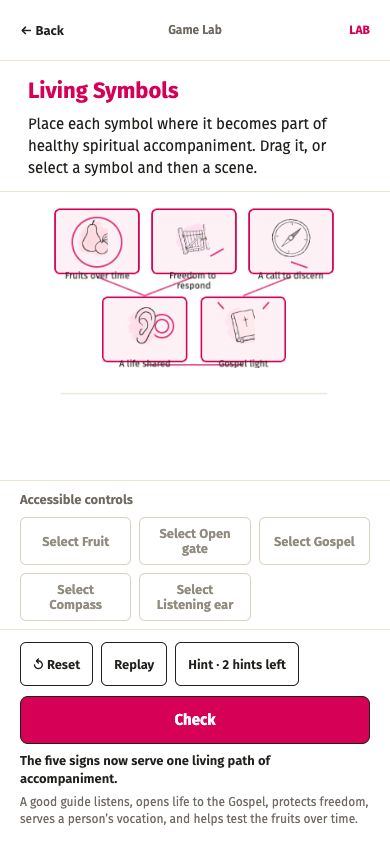
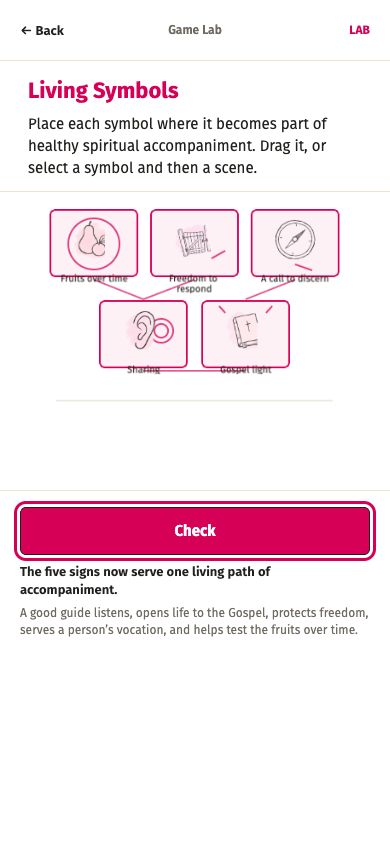
Simplify shared minigame controls and refine A4

Changed region(s): [[0.0308, 0.5853, 0.9846, 0.9858], [0.1231, 0.2464, 0.8923, 0.4621]]

diff --git a/src/minigames/stage-shell.js b/src/minigames/stage-shell.js
@@ -4,8 +4,8 @@ import { createResultAdapter } from "./result-adapter.js";
 import { loadPhaserRuntime } from "./runtime.js";
 
 const copy = {
-  en: { back: "Back", lab: "Game Lab", hint: "Hint", hintLeft: "hint left", hintsLeft: "hints left", check: "Check", reset: "Reset", replay: "Replay", controls: "Accessible controls", loading: "Loading game…", submitted: "Mission submitted", locked: "This mission already has its one submission.", invalid: "That move is not available. Your progress is unchanged.", ringMoved: "Band moved to the selected mark." },
-  pt: { back: "Voltar", lab: "Laboratório de Jogos", hint: "Dica", hintLeft: "dica restante", hintsLeft: "dicas restantes", check: "Verificar", reset: "Reiniciar", replay: "Jogar novamente", controls: "Controles acessíveis", loading: "Carregando jogo…", submitted: "Missão enviada", locked: "Esta missão já recebeu sua única resposta.", invalid: "Esse movimento não está disponível. Seu progresso não mudou.", ringMoved: "Faixa movida para a marca escolhida." },
+  en: { back: "Back", lab: "Game Lab", check: "Check", loading: "Loading game…", submitted: "Mission submitted", locked: "This mission already has its one submission.", invalid: "That move is not available. Your progress is unchanged.", ringMoved: "Band moved to the selected mark." },
+  pt: { back: "Voltar", lab: "Laboratório de Jogos", check: "Verificar", loading: "Carregando jogo…", submitted: "Missão enviada", locked: "Esta missão já recebeu sua única resposta.", invalid: "Esse movimento não está disponível. Seu progresso não mudou.", ringMoved: "Faixa movida para a marca escolhida." },
 };
 
 function tr(value, language) {
@@ -65,7 +65,7 @@ export async function launchGameStage({
   const engine = registry.resolve(instance, { allowNonProduction: instance.mode === "lab" });
   validateEnginePayload(engine, instance);
   const saved = persistence.load(instance);
-  let hintsUsed = Math.max(0, Math.min(2, Number(saved?.hintsUsed) || 0));
+  const hintsUsed = 0;
   let submitted = Boolean(saved?.submitted);
   let resultShown = instance.mode === "mission" && submitted;
   let scene = null;
@@ -89,16 +89,7 @@ export async function launchGameStage({
       <div class="minigame-loading" data-stage-loading role="status">${copy[locale].loading}</div>
       <div class="minigame-canvas-host" data-stage-canvas></div>
     </section>
-    <section class="minigame-access-panel" aria-labelledby="minigame-access-title">
-      <h2 id="minigame-access-title">${copy[locale].controls}</h2>
-      <div class="minigame-access-actions" data-stage-access></div>
-      <p class="minigame-engine-status" data-stage-engine-status role="status" aria-live="polite"></p>
-    </section>
     <footer class="minigame-stage-controls">
-      <div class="minigame-secondary-controls">
-        ${instance.mode === "lab" ? `<button type="button" data-stage-action="reset">↺ ${copy[locale].reset}</button><button type="button" data-stage-action="replay">${copy[locale].replay}</button>` : ""}
-        <button type="button" data-stage-action="hint">${copy[locale].hint} · <span data-stage-hints>${2 - hintsUsed}</span> <span data-stage-hint-label>${2 - hintsUsed === 1 ? copy[locale].hintLeft : copy[locale].hintsLeft}</span></button>
-      </div>
       <button type="button" class="minigame-check" data-stage-action="check" ${instance.mode === "mission" && submitted ? "disabled" : ""}>${instance.mode === "mission" && submitted ? copy[locale].submitted : copy[locale].check}</button>
       <p class="minigame-feedback" data-stage-feedback role="status" aria-live="polite">${instance.mode === "mission" && submitted ? copy[locale].locked : ""}</p>
       <p class="minigame-insight" data-stage-insight ${resultShown ? "" : "hidden"}>${escapeHtml(tr(instance.insight, locale))}</p>
@@ -108,12 +99,6 @@ export async function launchGameStage({
   const canvasHost = mount.querySelector("[data-stage-canvas]");
   const loading = mount.querySelector("[data-stage-loading]");
   const feedback = mount.querySelector("[data-stage-feedback]");
-  const engineStatus = mount.querySelector("[data-stage-engine-status]");
-  const accessPanel = mount.querySelector(".minigame-access-panel");
-  const access = mount.querySelector("[data-stage-access]");
-  const hintButton = mount.querySelector('[data-stage-action="hint"]');
-  const hintCount = mount.querySelector("[data-stage-hints]");
-  const hintLabel = mount.querySelector("[data-stage-hint-label]");
   const checkButton = mount.querySelector('[data-stage-action="check"]');
   const insight = mount.querySelector("[data-stage-insight]");
 
@@ -122,42 +107,16 @@ export async function launchGameStage({
     persistence.save(instance, { hintsUsed, submitted, engineState: engine.serializeState(scene, instance) });
   }
 
-  function updateHintControl() {
-    const remaining = Math.max(0, 2 - hintsUsed);
-    hintCount.textContent = String(remaining);
-    hintLabel.textContent = remaining === 1 ? copy[locale].hintLeft : copy[locale].hintsLeft;
-    hintButton.disabled = remaining === 0 || (instance.mode === "mission" && submitted);
-  }
-
   function renderEngineStatus() {
     if (resultShown) return;
-    engineStatus.textContent = currentEngineStatus(scene, locale);
-    engineStatus.dataset.state = currentEngineTone(scene);
+    feedback.textContent = currentEngineStatus(scene, locale);
+    feedback.dataset.state = currentEngineTone(scene);
   }
 
   function reportEngineFeedback(message) {
     resultShown = false;
-    engineStatus.textContent = tr(message, locale);
-    engineStatus.dataset.state = "";
-  }
-
-  function renderAccessibleActions() {
-    access.replaceChildren();
-    const actions = engine.getAccessibleActions(scene, instance) || [];
-    accessPanel.hidden = actions.length === 0;
-    actions.forEach((action) => {
-      const button = document.createElement("button");
-      button.type = "button";
-      button.textContent = tr(action.label, locale);
-      button.disabled = Boolean(action.disabled) || (instance.mode === "mission" && submitted);
-      button.addEventListener("click", () => {
-        action.run();
-        persist();
-        renderAccessibleActions();
-        renderEngineStatus();
-      });
-      access.append(button);
-    });
+    feedback.textContent = tr(message, locale);
+    feedback.dataset.state = "";
   }
 
   const Phaser = await loadPhaserRuntime();
@@ -170,7 +129,6 @@ export async function launchGameStage({
     onStateChange: (changedScene) => {
       if (changedScene) scene = changedScene;
       persist();
-      renderAccessibleActions();
       renderEngineStatus();
     },
     onReady: (readyScene) => {
@@ -178,7 +136,6 @@ export async function launchGameStage({
       loading.hidden = true;
       scene.setLocked?.(instance.mode === "mission" && submitted);
       if (instance.mode === "mission" && submitted) scene.revealSolution?.();
-      renderAccessibleActions();
       renderEngineStatus();
       persist();
     },
@@ -223,31 +180,8 @@ export async function launchGameStage({
       checkButton.disabled = true;
       checkButton.textContent = copy[locale].submitted;
     }
-    renderAccessibleActions();
-    updateHintControl();
     persist();
     await adaptResult(instance, evaluation, { hintsUsed });
-  }
-
-  function reset() {
-    if (instance.mode !== "lab") return;
-    persistence.clear(instance);
-    hintsUsed = 0;
-    submitted = false;
-    resultShown = false;
-    engine.restoreState(scene, null, instance);
-    scene.setLocked?.(false);
-    feedback.textContent = "";
-    feedback.dataset.state = "";
-    engineStatus.textContent = "";
-    engineStatus.dataset.state = "";
-    insight.hidden = true;
-    checkButton.disabled = false;
-    checkButton.textContent = copy[locale].check;
-    updateHintControl();
-    renderAccessibleActions();
-    renderEngineStatus();
-    persist();
   }
 
   async function handleStageClick(event) {
@@ -255,22 +189,10 @@ export async function launchGameStage({
     if (!button) return;
     const action = button.dataset.stageAction;
     if (action === "check") await submit();
-    if (action === "hint" && hintsUsed < 2 && !(instance.mode === "mission" && submitted)) {
-      resultShown = false;
-      const message = engine.showHint(scene, hintsUsed, instance);
-      hintsUsed += 1;
-      feedback.textContent = tr(message, locale);
-      feedback.dataset.state = "";
-      updateHintControl();
-      renderAccessibleActions();
-      persist();
-    }
-    if (action === "reset" || action === "replay") reset();
     if (action === "close") onClose?.();
   }
 
   mount.addEventListener("click", handleStageClick);
-  updateHintControl();
 
   return {
     destroy() {

diff --git a/src/styles.css b/src/styles.css
@@ -218,92 +218,26 @@ textarea:focus-visible {
   display: none;
 }
 
-.minigame-access-panel {
-  padding: 10px 20px 8px;
-  border-bottom: 1px solid var(--border-soft);
-}
-
-.minigame-access-panel h2 {
-  margin: 0 0 8px;
-  color: var(--muted);
-  font-size: 13px;
-  font-weight: 600;
-  line-height: 18px;
-}
-
-.minigame-access-actions {
-  display: grid;
-  gap: 8px;
-  grid-template-columns: repeat(2, minmax(0, 1fr));
-}
-
-.minigame-stage-shell[data-minigame-engine="B9"] .minigame-access-actions {
-  grid-template-columns: repeat(2, minmax(0, 1fr));
-}
-
-.minigame-access-status {
-  min-height: 18px;
-  margin: 6px 0 0;
-  color: var(--muted);
-  font-size: 13px;
-  line-height: 18px;
-}
-
-.minigame-access-actions button,
-.minigame-secondary-controls button {
-  min-height: 44px;
-  padding: 8px 12px;
-  border: 1px solid var(--graphite);
-  border-radius: 6px;
-  background: #fff;
-  color: var(--graphite);
-  cursor: pointer;
-  font-size: 13px;
-  font-weight: 600;
-  white-space: normal;
-}
-
-.minigame-engine-status {
-  min-height: 18px;
-  margin: 7px 0 0;
-  color: var(--muted);
-  font-size: 12px;
-  line-height: 18px;
-}
-
-[data-engine-id="B13"] .minigame-access-actions button {
-  padding-inline: 8px;
-  font-size: 12px;
-  line-height: 16px;
-}
-
 .minigame-stage-controls {
-  padding: 12px 20px max(16px, env(safe-area-inset-bottom));
-}
-
-.minigame-secondary-controls {
-  display: flex;
-  gap: 8px;
-  margin-bottom: 10px;
-  overflow-x: auto;
+  padding: 16px 20px max(20px, env(safe-area-inset-bottom));
 }
 
 .minigame-check {
   width: 100%;
   min-height: 48px;
-  padding: 10px 16px;
+  padding: 12px 16px;
   border: 1.5px solid var(--graphite);
-  border-radius: 8px;
+  border-radius: 6px;
   background: var(--love-red);
   color: #fff;
   cursor: pointer;
   font-size: 15px;
   font-weight: 700;
+  line-height: 22px;
+  transition: background-color 140ms ease-out, color 140ms ease-out;
 }
 
-.minigame-check:disabled,
-.minigame-access-actions button:disabled,
-.minigame-secondary-controls button:disabled {
+.minigame-check:disabled {
   border-color: var(--border);
   background: #fff;
   color: var(--soft);
@@ -391,14 +325,6 @@ textarea:focus-visible {
   color: var(--muted);
   font-size: 13px;
   line-height: 18px;
-}
-
-.minigame-stage-shell[data-minigame-engine="A2"] .minigame-access-actions {
-  grid-template-columns: repeat(2, minmax(0, 1fr));
-}
-
-.minigame-stage-shell[data-minigame-engine="A2"] .minigame-access-actions button {
-  padding: 6px 10px;
 }
 
 .minigame-lab-error {
@@ -576,8 +502,6 @@ a.minigame-index-row:focus-visible,
 
 @media (max-width: 374px) {
   .minigame-stage-copy { padding-right: 20px; padding-left: 20px; }
-  .minigame-access-actions { gap: 6px; }
-  .minigame-access-actions button { padding-right: 7px; padding-left: 7px; font-size: 12px; }
 }
 
 @media (prefers-reduced-motion: reduce) {

diff --git a/src/minigames/engines/a4-engine.js b/src/minigames/engines/a4-engine.js
@@ -10,7 +10,7 @@ const OBJECT_COPY = Object.freeze({
 });
 
 const ZONE_COPY = Object.freeze({
-  story: { en: "A life shared", pt: "Uma vida partilhada" },
+  story: { en: "Sharing", pt: "Partilha" },
   light: { en: "Gospel light", pt: "Luz do Evangelho" },
   path: { en: "Freedom to respond", pt: "Liberdade para responder" },
   crossroads: { en: "A call to discern", pt: "Um chamado a discernir" },
@@ -190,7 +190,8 @@ export const a4Engine = Object.freeze({
           sprite.setData("objectId", id);
           sprite.on("pointerdown", () => {
             if (this.a4State.locked || this.dragging) return;
-            this.selectObject(this.a4State.selectedId === id ? null : id);
+            if (this.a4State.selectedId === id) this.returnToDock(id);
+            else this.selectObject(id);
           });
           sprite.on("dragstart", () => { if (!this.a4State.locked) this.dragging = true; });
           sprite.on("drag", (_pointer, x, y) => {
@@ -273,7 +274,7 @@ export const a4Engine = Object.freeze({
         if (this.a4State.locked) return;
         this.a4State.placements[id] = null;
         this.a4State.completed = false;
-        this.a4State.selectedId = id;
+        this.a4State.selectedId = null;
         this.a4State.lastInvalid = null;
         this.accessibleFeedback = localized(`${OBJECT_COPY[id].en} returned to the tray.`, `${OBJECT_COPY[id].pt} voltou para a bandeja.`);
         this.accessibleFeedbackTone = "";